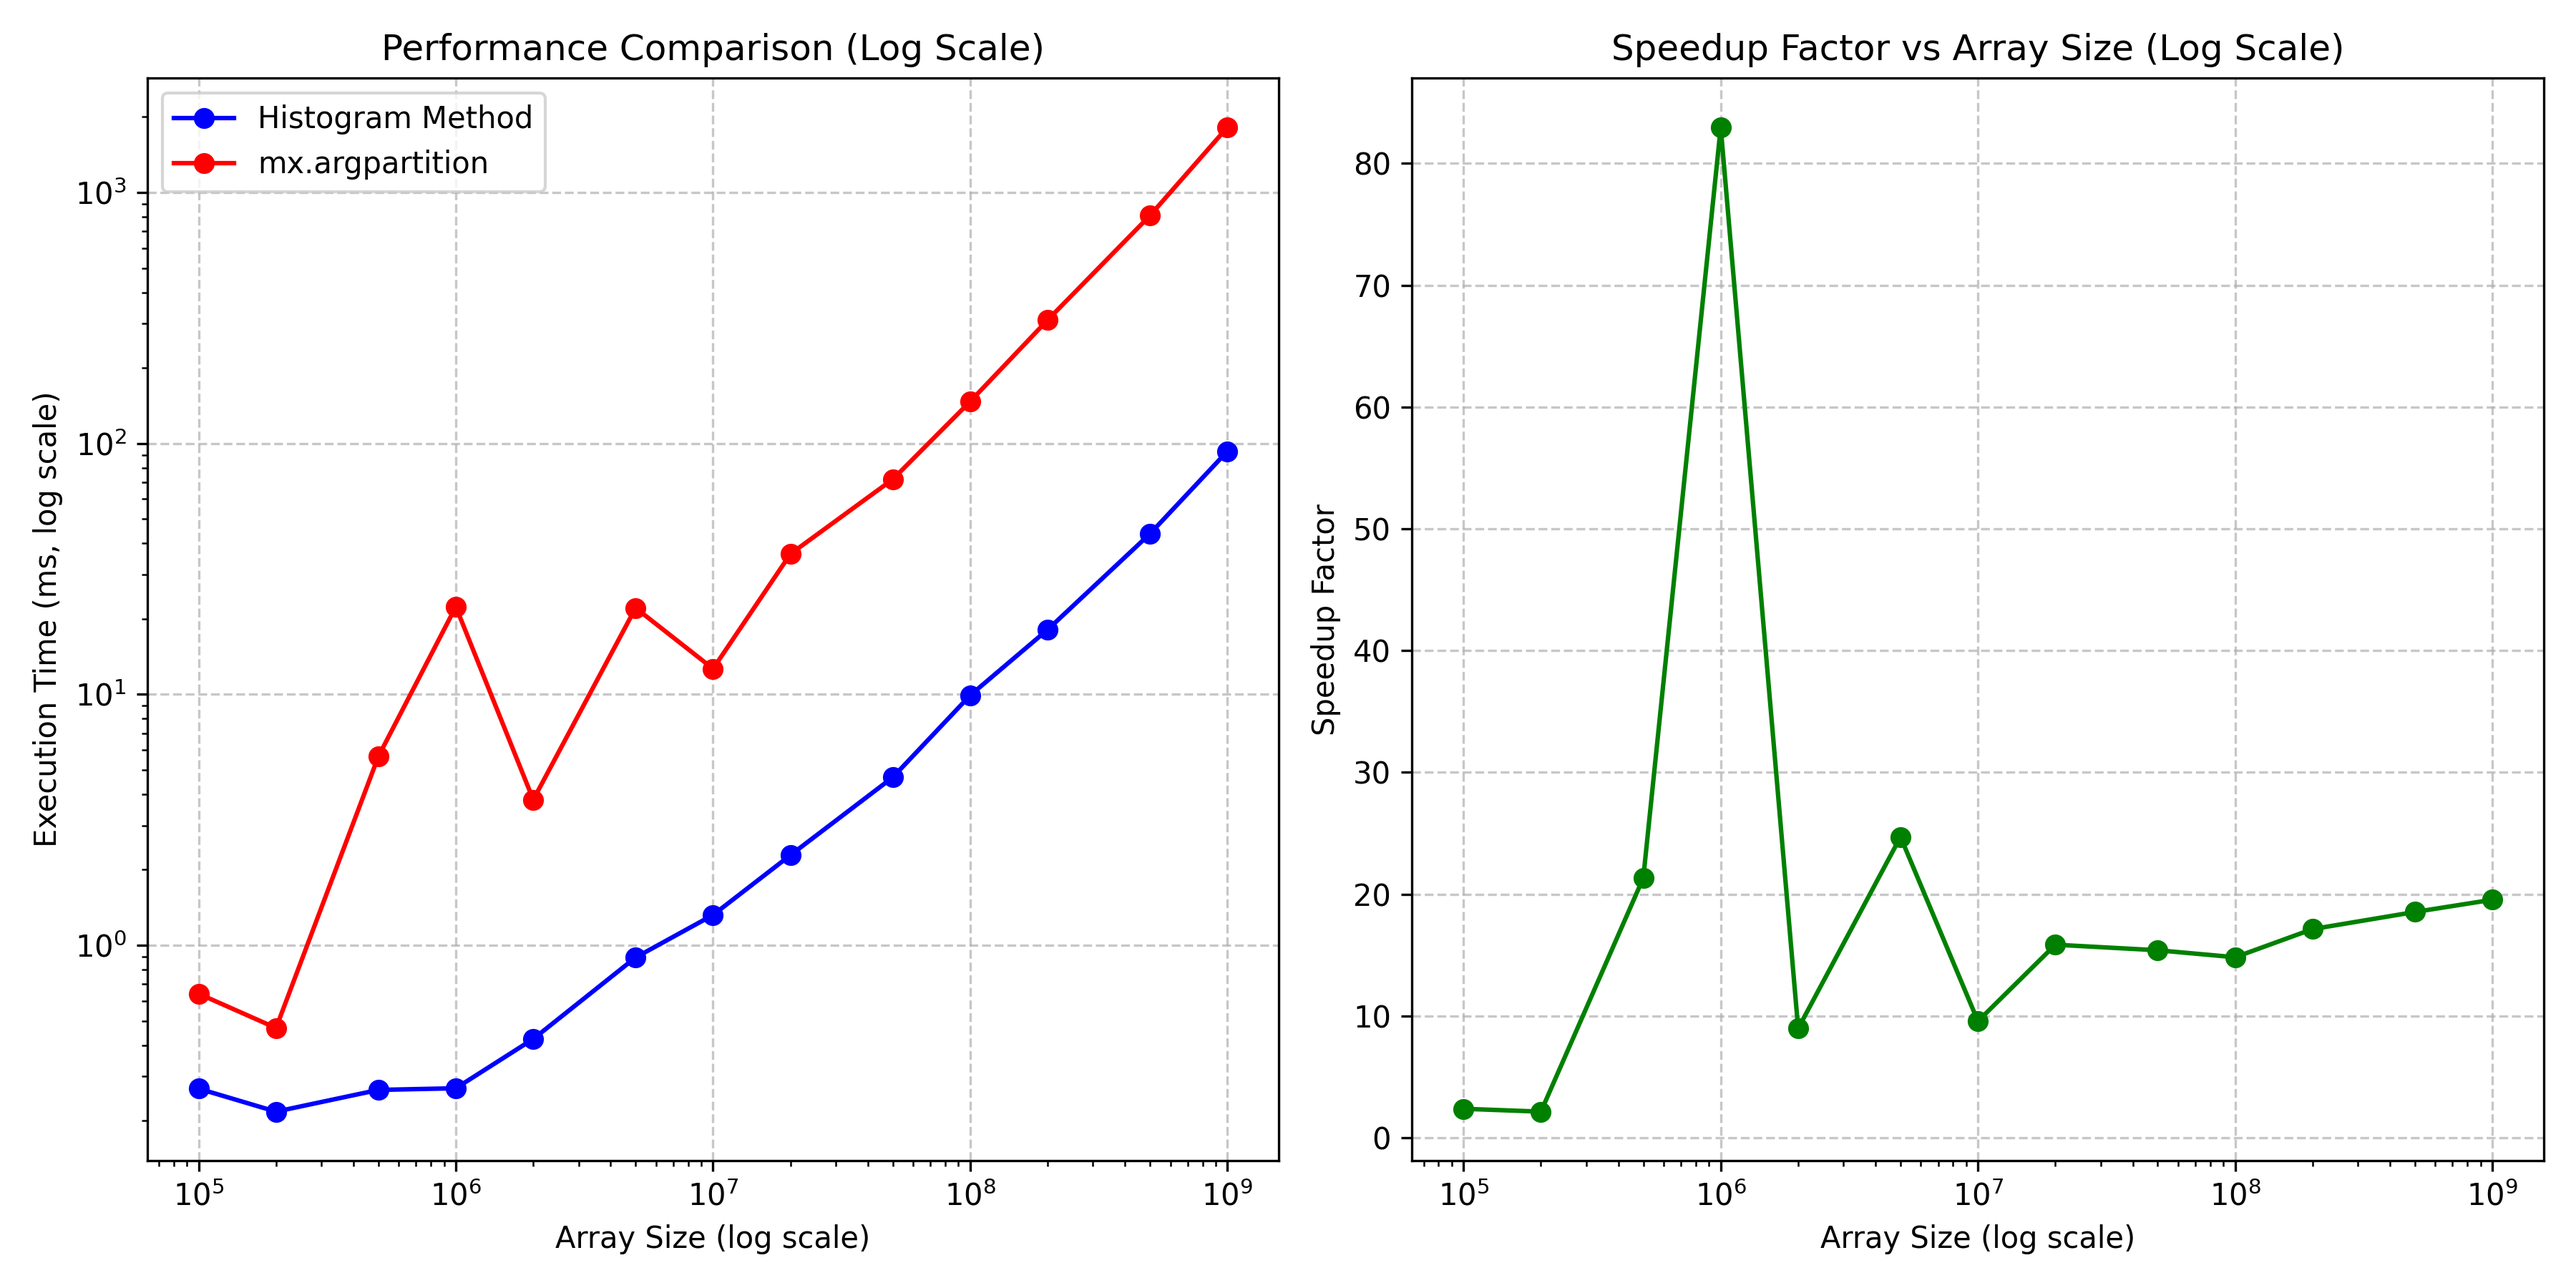
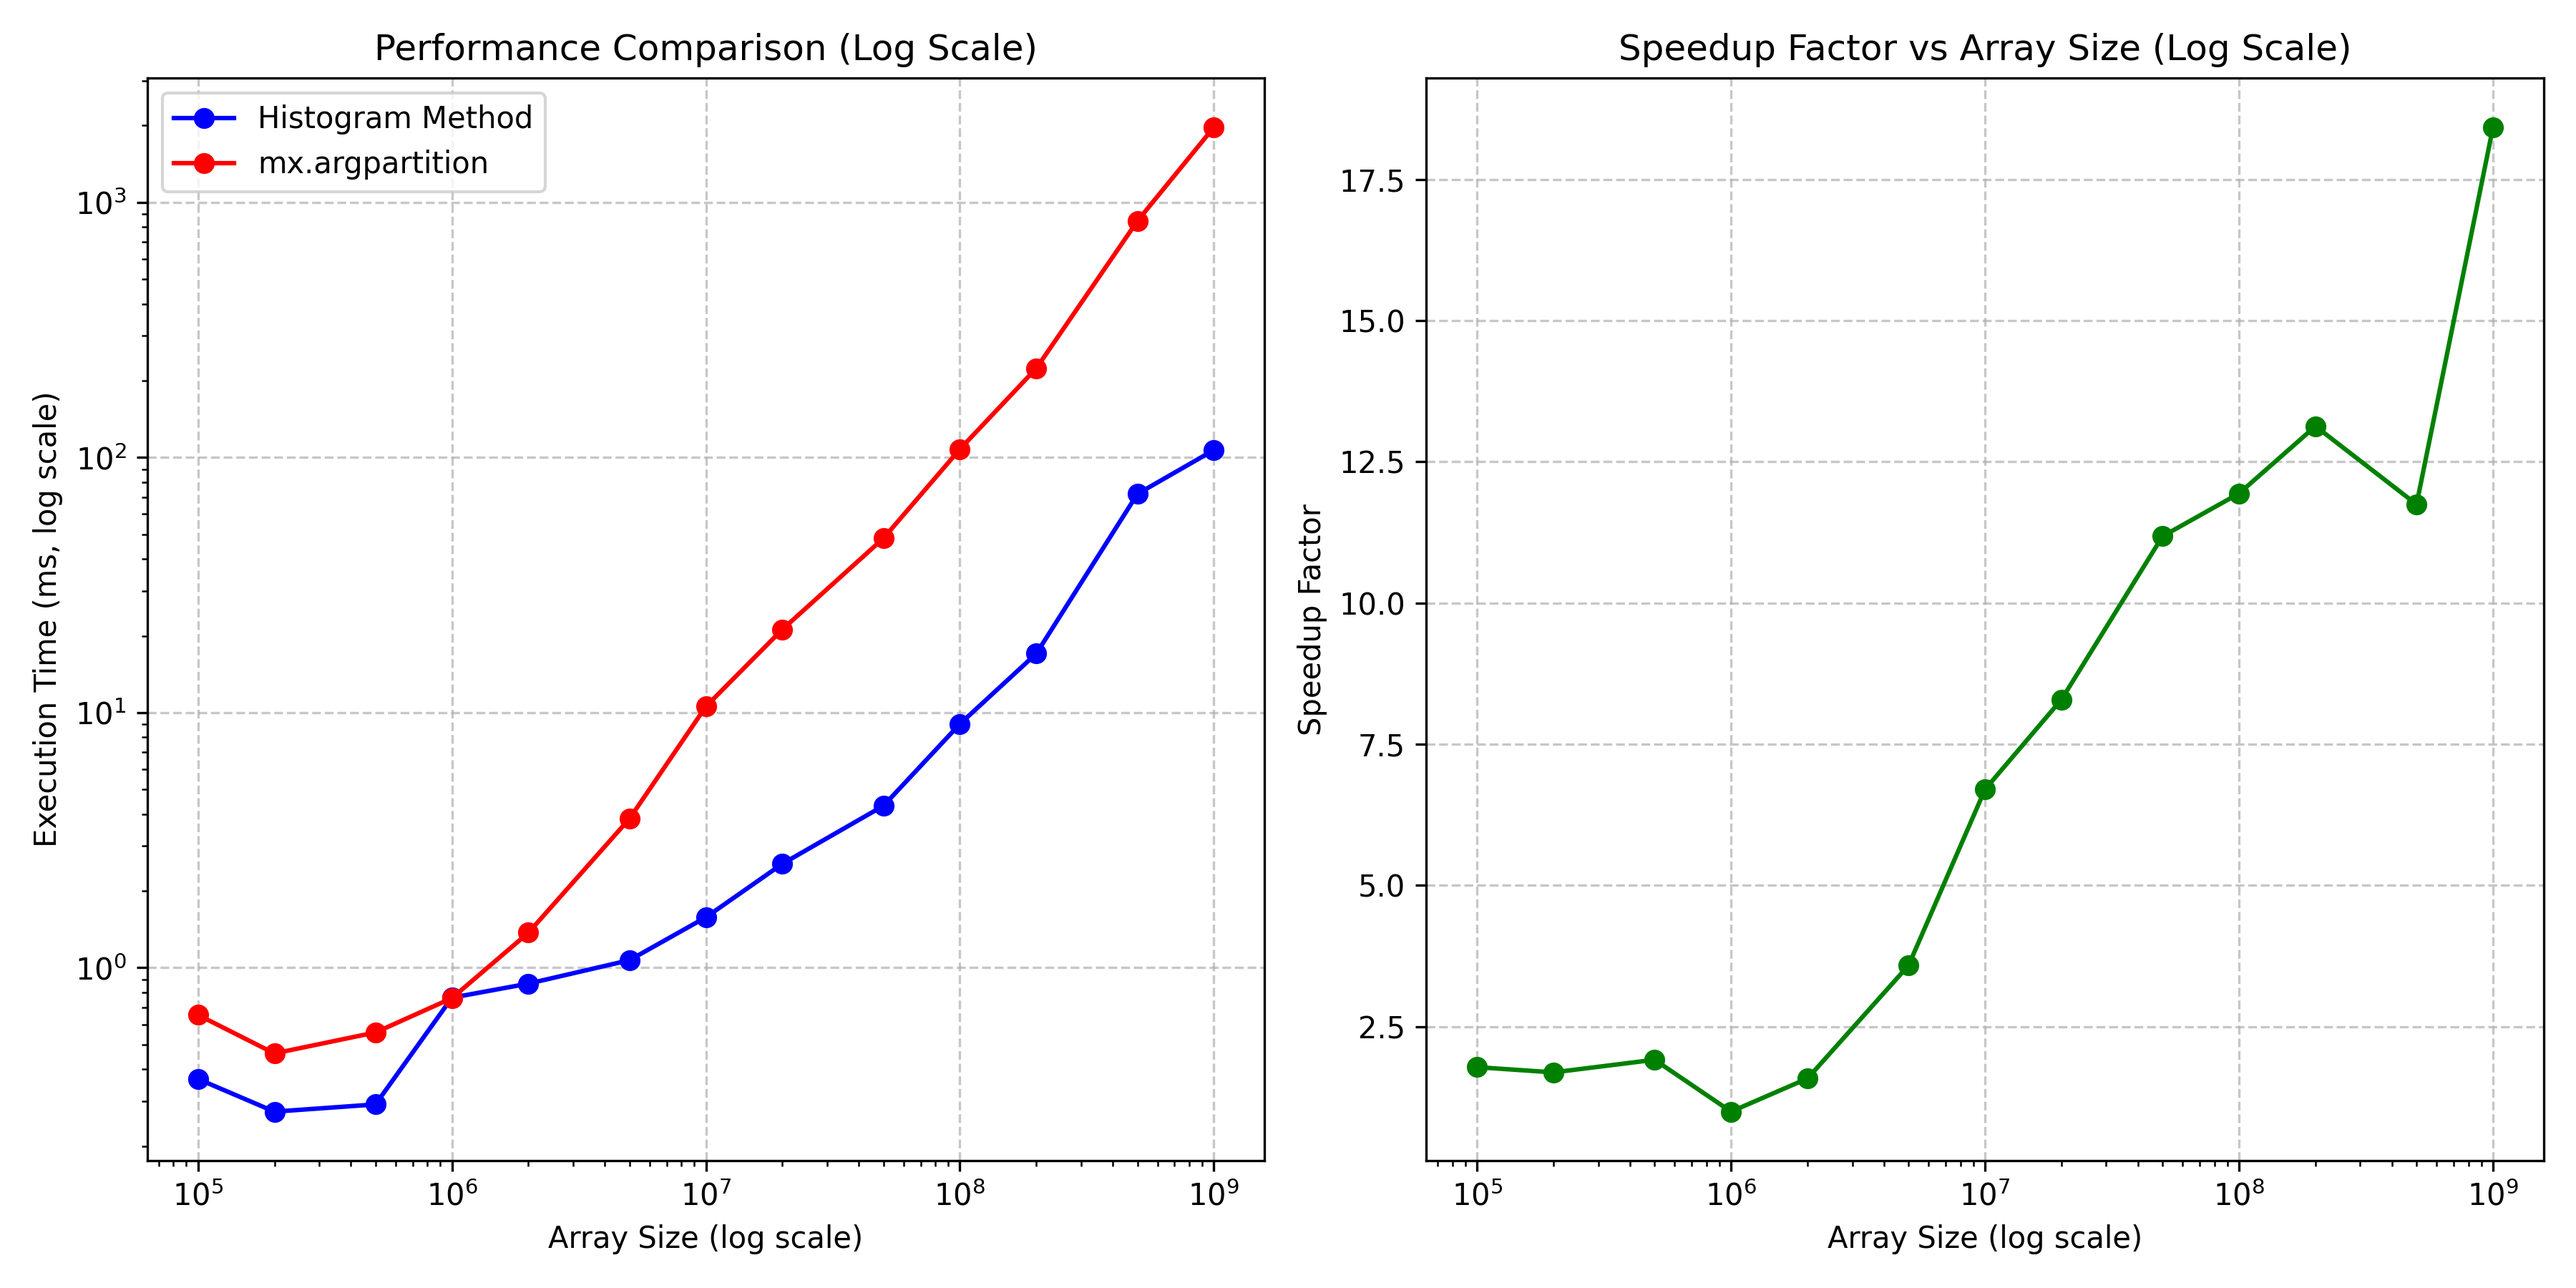
uwu

diff --git a/bench-graph.py b/bench-graph.py
@@ -3,10 +3,12 @@ import matplotlib.pyplot as plt
 import time
 import mlx.core as mx
 import random
+import math
 
-# Constants from original code
+# Constants
 K = 5  # Number of top elements to find
 MAX_SIMILARITY = 1024  # Maximum similarity value (uint16 range)
+TARGET_SIZE = 100_000_000  # Target total elements to process
 
 # Define Metal kernel for histogram-based top-k
 HISTOGRAM_TOPK_KERNEL_SOURCE = """
@@ -45,90 +47,135 @@ def run_benchmark_with_visualization():
         atomic_outputs=True,
     )
 
-    # Warmup kernel
+    # Warmup kernel with small array first
+    warmup_size = 10
+    warmup_similarities = np.random.randint(0, MAX_SIMILARITY, size=warmup_size, dtype=np.uint16)
+    mx_warmup_similarities = mx.array(warmup_similarities)
+    
+    # Execute warmup
+    histogram_indices, counters = histogram_topk_kernel(
+        inputs=[mx_warmup_similarities, warmup_size, K],
+        grid=(warmup_size, 1, 1),
+        threadgroup=(256, 1, 1),
+        output_shapes=[(MAX_SIMILARITY + 1, K), (MAX_SIMILARITY + 1,)],
+        output_dtypes=[mx.uint32, mx.uint32],
+        init_value=0
+    )
+    mx.eval(histogram_indices, counters)  # Ensure kernel is compiled
     
     # Test different dataset sizes
-    #sizes = [10, 100_000, 1_000_000, 10_000_000, 100_000_000, 1_000_000_000]  # Scaled for performance testing
-    sizes = [10, 100_000, 200_000, 500_000, 1_000_000, 2_000_000, 5_000_000, 10_000_000, 20_000_000, 50_000_000, 100_000_000, 200_000_000, 500_000_000, 1_000_000_000]  # Scaled for performance testing
-    # First size is 1 to ensure the kernel is compiled and ready - its a warmup
+    sizes = [100_000, 200_000, 500_000, 1_000_000, 2_000_000, 5_000_000, 
+             10_000_000, 20_000_000, 50_000_000, 100_000_000, 200_000_000, 
+             500_000_000, 1_000_000_000]
+    
     # Arrays to store timing results
     hist_times = []
     argpart_times = []
+    speedup_factors = []
+    effective_sizes = []  # To store the actual tested sizes
     
     for size in sizes:
-        print(f"\n=== TESTING SIZE {size} ===")
+        # For arrays larger than TARGET_SIZE, run at least 10 times
+        # For smaller arrays, repeat to process ~TARGET_SIZE elements
+        iterations = max(10, math.ceil(TARGET_SIZE / size))
+        total_elements = size * iterations
         
-        # Generate array with values up to MAX_SIMILARITY - 1
-        similarities = np.random.randint(0, MAX_SIMILARITY, size=size, dtype=np.uint16)
-        
-        # Insert a "needle" with MAX_SIMILARITY at a random position
-        needle_index = random.randint(0, size - 1)
-        similarities[needle_index] = MAX_SIMILARITY
-        
-        # Convert to MLX array
-        mx_similarities = mx.array(similarities)
-        
-        # Time and verify Metal histogram-based method
-        start_time = time.time()
-        
-        # Execute kernel
-        histogram_indices, counters = histogram_topk_kernel(
-            inputs=[mx_similarities, size, K],
-            grid=(size, 1, 1),
-            threadgroup=(256, 1, 1),
-            output_shapes=[(MAX_SIMILARITY + 1, K), (MAX_SIMILARITY + 1,)],
-            output_dtypes=[mx.uint32, mx.uint32],
-            init_value=0
-        )
-        
-        # Evaluate to complete computation
-        mx.eval(histogram_indices, counters)
-        
-        # Extract top-k indices from histogram
-        hist_top_indices = []
-        needed = K
-        
-        # Scan histogram from highest score to lowest
-        counters_np = np.array(counters)
-        histogram_indices_np = np.array(histogram_indices)
-        
-        for score in range(MAX_SIMILARITY, -1, -1):
-            count = int(counters_np[score])
-            if count > 0:
-                # Get indices from this bucket
-                bucket_indices = histogram_indices_np[score, :min(count, K)].tolist()
-                hist_top_indices.extend(bucket_indices[:needed])
-                needed -= len(bucket_indices[:needed])
-                if needed <= 0:
-                    break
-        
-        hist_time = (time.time() - start_time) * 1000
-        hist_times.append(hist_time)
-        
-        # Time mx.argpartition
-        start_time = time.time()
-        argpart_top_indices = mx.argpartition(mx_similarities, -K)[-K:].tolist()
-        argpart_top_indices.reverse()  # To match order (highest first)
-        mx.eval(argpart_top_indices)  # Ensure computation is complete
-        argpart_time = (time.time() - start_time) * 1000
-        argpart_times.append(argpart_time)
-        
-        # Print performance results
-        print(f"Metal histogram method: {hist_time:.2f} ms")
-        print(f"mx.argpartition: {argpart_time:.2f} ms")
-        print(f"Speedup: {argpart_time/hist_time:.2f}x")
-        mx.metal.clear_cache()  # Clear cache to avoid memory issues
+        # Only add the size to our results if we're going to run the test
+        # (skip extremely large sizes if needed)
+        try:
+            print(f"\n=== TESTING SIZE {size:,} with {iterations} iterations ===")
+            print(f"Total elements processed: {total_elements:,}")
+            
+            # Track cumulative times
+            total_hist_time = 0
+            total_argpart_time = 0
+            
+            for iteration in range(iterations):
+                if iterations > 1 and iteration % 10 == 0:
+                    print(f"  Running iteration {iteration}/{iterations}...")
+                
+                # Generate array with values up to MAX_SIMILARITY - 1
+                similarities = np.random.randint(0, MAX_SIMILARITY, size=size, dtype=np.uint16)
+                
+                # Insert a "needle" with MAX_SIMILARITY at a random position
+                needle_index = random.randint(0, size - 1)
+                similarities[needle_index] = MAX_SIMILARITY
+                
+                # Convert to MLX array
+                mx_similarities = mx.array(similarities)
+                
+                # Time and verify Metal histogram-based method
+                start_time = time.time()
+                
+                # Execute kernel
+                histogram_indices, counters = histogram_topk_kernel(
+                    inputs=[mx_similarities, size, K],
+                    grid=(size, 1, 1),
+                    threadgroup=(256, 1, 1),
+                    output_shapes=[(MAX_SIMILARITY + 1, K), (MAX_SIMILARITY + 1,)],
+                    output_dtypes=[mx.uint32, mx.uint32],
+                    init_value=0
+                )
+                
+                # Evaluate to complete computation
+                mx.eval(histogram_indices, counters)
+                
+                # Extract top-k indices from histogram
+                hist_top_indices = []
+                needed = K
+                
+                # Scan histogram from highest score to lowest
+                counters_np = np.array(counters)
+                histogram_indices_np = np.array(histogram_indices)
+                
+                for score in range(MAX_SIMILARITY, -1, -1):
+                    count = int(counters_np[score])
+                    if count > 0:
+                        # Get indices from this bucket
+                        bucket_indices = histogram_indices_np[score, :min(count, K)].tolist()
+                        hist_top_indices.extend(bucket_indices[:needed])
+                        needed -= len(bucket_indices[:needed])
+                        if needed <= 0:
+                            break
+                
+                hist_time = (time.time() - start_time) * 1000
+                total_hist_time += hist_time
+                
+                # Time mx.argpartition
+                start_time = time.time()
+                argpart_top_indices = mx.argpartition(mx_similarities, -K)[-K:].tolist()
+                argpart_top_indices.reverse()  # To match order (highest first)
+                mx.eval(argpart_top_indices)  # Ensure computation is complete
+                argpart_time = (time.time() - start_time) * 1000
+                total_argpart_time += argpart_time
+            
+            # Calculate averages
+            avg_hist_time = total_hist_time / iterations
+            avg_argpart_time = total_argpart_time / iterations
+            avg_speedup = avg_argpart_time / avg_hist_time
+                
+            # Store results
+            hist_times.append(avg_hist_time)
+            argpart_times.append(avg_argpart_time)
+            speedup_factors.append(avg_speedup)
+            effective_sizes.append(size)
+                
+            # Print performance results
+            print(f"Metal histogram method: {avg_hist_time:.2f} ms (average)")
+            print(f"mx.argpartition: {avg_argpart_time:.2f} ms (average)")
+            print(f"Speedup: {avg_speedup:.2f}x")
+            
+            # Clear cache to avoid memory issues
+            mx.metal.clear_cache()
+            
+        except Exception as e:
+            print(f"Error processing size {size}: {e}")
+            # Skip this size and continue with the next
+            continue
     
-    # Get rid of first size 1 results
-    hist_times = hist_times[1:]
-    argpart_times = argpart_times[1:]
-    sizes = sizes[1:]  # Remove the warmup size
     # Create visualizations
-
-
-    
     # Convert sizes to millions for better display
-    sizes_in_millions = [size / 1_000_000 for size in sizes]
+    sizes_in_millions = [size / 1_000_000 for size in effective_sizes]
     
     # 1. Line chart comparison
     plt.figure(figsize=(12, 6))
@@ -142,11 +189,8 @@ def run_benchmark_with_visualization():
     plt.grid(True, linestyle='--', alpha=0.7)
     plt.legend()
     
-    # Calculate speedup
-    speedup = [argpart / hist for hist, argpart in zip(hist_times, argpart_times)]
-    
     plt.subplot(1, 2, 2)
-    plt.bar(sizes_in_millions, speedup, color='green', alpha=0.7)
+    plt.bar(sizes_in_millions, speedup_factors, color='green', alpha=0.7)
     plt.title('Speedup Factor (argpartition / histogram)')
     plt.xlabel('Array Size (millions)')
     plt.ylabel('Speedup Factor')
@@ -159,8 +203,8 @@ def run_benchmark_with_visualization():
     plt.figure(figsize=(12, 6))
     
     plt.subplot(1, 2, 1)
-    plt.loglog(sizes, hist_times, 'b-o', label='Histogram Method')
-    plt.loglog(sizes, argpart_times, 'r-o', label='mx.argpartition')
+    plt.loglog(effective_sizes, hist_times, 'b-o', label='Histogram Method')
+    plt.loglog(effective_sizes, argpart_times, 'r-o', label='mx.argpartition')
     plt.title('Performance Comparison (Log Scale)')
     plt.xlabel('Array Size (log scale)')
     plt.ylabel('Execution Time (ms, log scale)')
@@ -168,7 +212,7 @@ def run_benchmark_with_visualization():
     plt.legend()
     
     plt.subplot(1, 2, 2)
-    plt.semilogx(sizes, speedup, 'g-o')
+    plt.semilogx(effective_sizes, speedup_factors, 'g-o')
     plt.title('Speedup Factor vs Array Size (Log Scale)')
     plt.xlabel('Array Size (log scale)')
     plt.ylabel('Speedup Factor')
@@ -182,9 +226,9 @@ def run_benchmark_with_visualization():
     print("Array Sizes (millions):", sizes_in_millions)
     print("Histogram Method Times (ms):", hist_times)
     print("mx.argpartition Times (ms):", argpart_times)
-    print("Speedup Factors:", speedup)
+    print("Speedup Factors:", speedup_factors)
     
-    return sizes, hist_times, argpart_times, speedup
+    return effective_sizes, hist_times, argpart_times, speedup_factors
 
 if __name__ == "__main__":
     run_benchmark_with_visualization()
